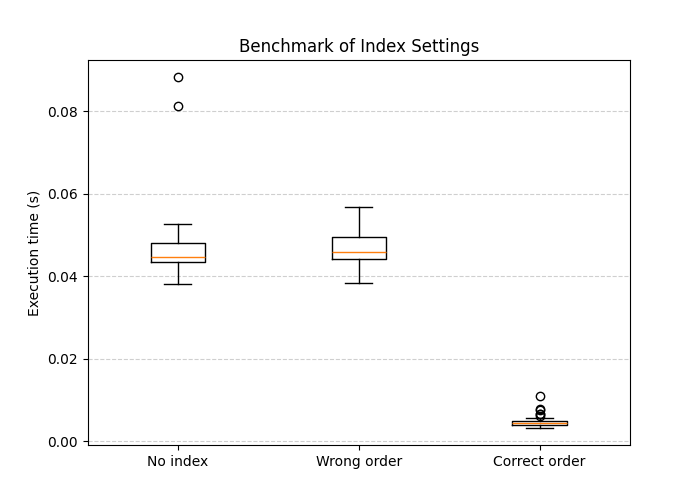
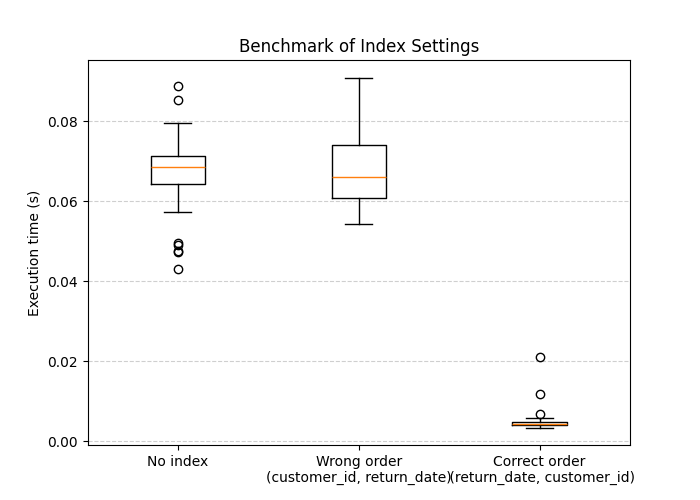
improve query settings, improve image

diff --git a/research_missing_indexes.py b/research_missing_indexes.py
@@ -17,7 +17,7 @@ def main():
         start_time = time.time()
         rentals = session.query(rental.Rental).filter(
             rental.Rental.return_date < datetime(2022, 6, 22, tzinfo=timezone.utc)
-        ).order_by(rental.Rental.return_date).limit(100).all()
+        ).order_by(rental.Rental.return_date, rental.Rental.customer_id).limit(100).all()
         data[0][x] = time.time() - start_time
         session.commit()
 
@@ -34,7 +34,7 @@ def main():
         start_time = time.time()
         rentals = session.query(rental.Rental).filter(
             rental.Rental.return_date < datetime(2022, 6, 22, tzinfo=timezone.utc)
-        ).order_by(rental.Rental.return_date).limit(100).all()
+        ).order_by(rental.Rental.return_date, rental.Rental.customer_id).limit(100).all()
         data[1][x] = time.time() - start_time
         session.commit()
     
@@ -52,7 +52,7 @@ def main():
         start_time = time.time()
         rentals = session.query(rental.Rental).filter(
             rental.Rental.return_date < datetime(2022, 6, 22, tzinfo=timezone.utc)
-        ).order_by(rental.Rental.return_date).limit(100).all()
+        ).order_by(rental.Rental.return_date, rental.Rental.customer_id).limit(100).all()
         data[2][x] = time.time() - start_time
         session.commit()
 
@@ -61,7 +61,7 @@ def main():
         idx_returndate_customerid.drop(conn)
 
     print("data:", data)
-    labels = ["No index", "Wrong order", "Correct order"]
+    labels = ["No index", "Wrong order\n(customer_id, return_date)", "Correct order\n (return_date, customer_id)"]
 
     plt.figure(figsize=(7,5))
     plt.boxplot(data, labels=labels)
